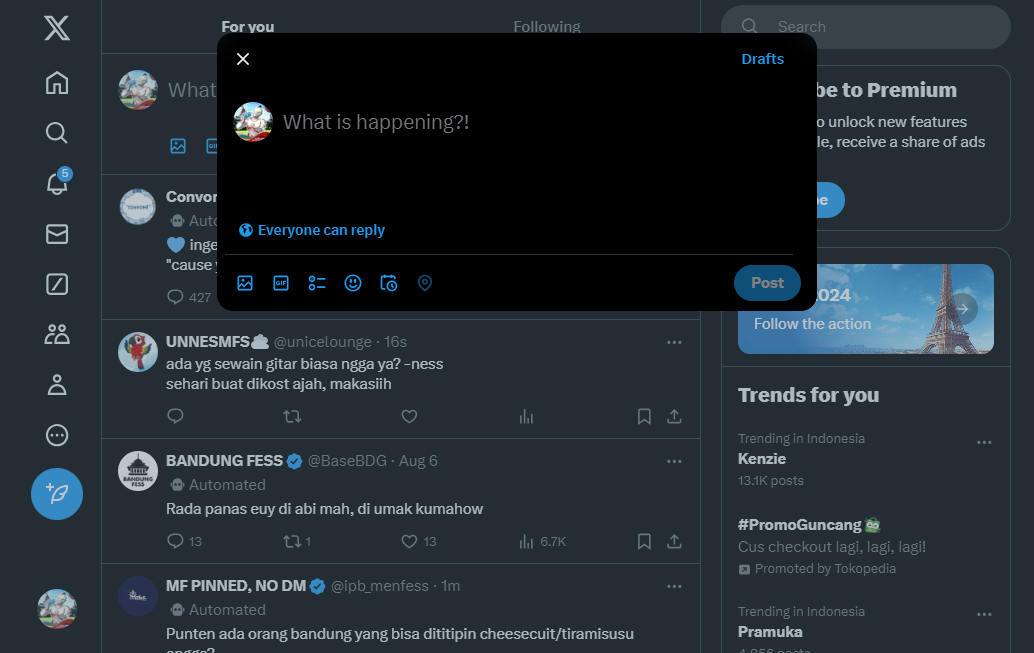
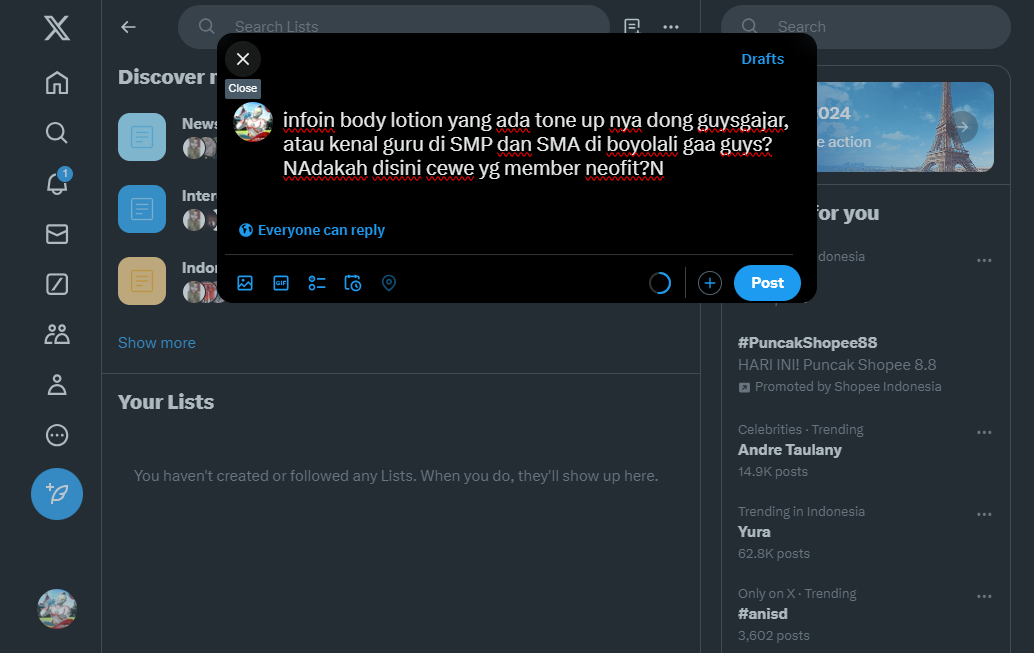
feat: login using auth token cookie

diff --git a/src/modules/tweeting/login.ts b/src/modules/tweeting/login.ts
@@ -1,0 +1,138 @@
+import * as path from 'path';
+import * as fs from 'fs';
+import { ElementHandle, NodeFor } from "puppeteer";
+import { delay } from "./helper/helper";
+import { page } from "./main";
+
+export default async function login() {
+    try {
+      // #1 LOGIN using Cookie
+      await loginCookie()
+    } catch (errorLoginCookie) {
+      console.log('ERROR: login using cookie. ', errorLoginCookie);
+  
+      // #2 LOGIN manually
+      try {
+        await loginManual()
+      } catch (errorLoginManually) {
+        console.log('ERROR: login using cookie. ', errorLoginManually);
+      } finally {
+        console.log("LOGGED IN using cookie..")
+      }
+    } finally {
+      console.log("LOGGED IN manually..")
+    }
+  }
+  
+async function loginCookie() {
+    // Get the absolute path to the login_cookie.json file
+    const cookieFilePath = path.join(__dirname, '..', 'data', 'login_cookie.json');
+
+    // go to twitter login page
+    await page.goto('https://twitter.com');
+    await delay(5000);
+
+    // get auth token from json file
+    const data = await fs.promises.readFile(cookieFilePath, 'utf8');
+    const cookieData = JSON.parse(data);
+
+    // set the login cookie
+    await page.setCookie(...cookieData)
+    const cookiesSet = await page.cookies('https://twitter.com/');
+    console.log(JSON.stringify(cookiesSet));
+
+    // reopen homepage with login cookie ativated
+    await delay(5000)
+    await page.goto('https://twitter.com');
+
+    // wait for 10 seconds to page loaded prefectly before scraping
+    await delay(10000);
+}
+
+async function loginManual() {
+    // get auth credentials from env
+    const email: string = process.env.EMAIL_TWT || '';
+    const username: string = process.env.USERNAME_TWT || '';
+    const password: string = process.env.PASSWORD_TWT || '';
+
+    // go to twitter login page
+    await page.goto('https://twitter.com/login');
+    await delay(5000);
+    
+    // fill email
+    await page.locator('input.r-30o5oe').fill(email);
+    await delay(1000);
+    console.log('login-1')
+
+    // click next
+    let nextBtn: ElementHandle<NodeFor<any>> | null = await page.waitForSelector('::-p-xpath(//*[@id="layers"]/div/div/div/div/div/div/div[2]/div[2]/div/div/div[2]/div[2]/div/div/div/button[2])') || null;
+    await nextBtn?.click()
+    await delay(1000);
+    console.log('login-2')
+    
+    // check if need to input username because unusual activity detected
+    const spanElements = await page.$$('span');
+    console.log('login-3')
+    for (const span of spanElements) {
+    const textContent = await span.evaluate(el => el.textContent);
+    if (textContent?.includes('Enter your phone number or username')) {
+        // fill username
+        await page.locator('input.r-30o5oe').fill(username);
+        await delay(1000);
+
+        nextBtn = await page.waitForSelector('::-p-xpath(//*[@id="layers"]/div/div/div/div/div/div/div[2]/div[2]/div/div/div[2]/div[2]/div[2]/div/div/div/button)');
+        await nextBtn?.click()
+        await delay(1000);
+        console.log('login-3')
+        break;
+    }
+    }
+    console.log('login-4')
+    
+    await page.locator('input[type="password"]').fill(password)
+    await delay(1000);
+    console.log('login-5')
+
+    nextBtn = await page.waitForSelector('::-p-xpath(//*[@id="layers"]/div[2]/div/div/div/div/div/div[2]/div[2]/div/div/div[2]/div[2]/div[2]/div/div[1]/div/div/button)');
+    await nextBtn?.click()
+    await delay(10000);
+    console.log('login-6')
+
+    // check if there is a closed button in popup -> close    
+    const buttonCount = await page.$$eval('button[aria-label="Close"]', (buttons) => buttons.length);
+    console.log('login-7')
+    const isAnyCloseBtn = buttonCount > 0;
+    console.log('login-8')
+    if (isAnyCloseBtn) {
+    await page.locator('button[aria-label="Close"]').click()
+    await delay(1000);
+    console.log('login-9')
+    }
+    console.log('login-10')
+
+    // close bottom popup if any
+    await delay(5000);
+    try{
+    const closeBtn = await page.waitForSelector('::-p-xpath(//*[@id="layers"]/div/div[1]/div/div/div/button)');
+    await closeBtn?.click()
+    console.log('login-11')
+    } catch (e) {
+    console.log(e)
+    }
+
+    // if redirected to login again -> relogin
+    const span2Elements = await page.$$('span');
+    console.log('login-12')
+    for (const span of span2Elements) {
+    const textContent = await span.evaluate(el => el.textContent);
+    if (textContent?.includes('Happening now')) {
+        await page.goto('https://twitter.com/login/');
+        await delay(1000);
+        await loginCookie();
+        break;
+    }
+    }
+
+    // wait for 10 seconds to page loaded prefectly before scraping
+    await delay(10000);
+}

diff --git a/src/modules/tweeting/post_tweet.ts b/src/modules/tweeting/post_tweet.ts
@@ -1,0 +1,55 @@
+import { delay } from "./helper/helper";
+import { page } from "./main";
+
+export default async function postTweet(message: string): Promise<string> {
+    console.log('postTweet-1')
+    
+    // put the comment using puppeteer
+    // type R on keyboard to reply on the post
+    await page.keyboard.type('N')
+    await delay(2000)
+    console.log('postTweet-2: is typing...')
+    
+    await page.keyboard.type(message, { delay: 100 })
+    await delay(1000);
+    console.log('postTweet-3')
+
+    // type ctrl + enter to post
+    page.keyboard.down('ControlLeft');
+    page.keyboard.press('Enter');
+    await delay(2000)
+    await page.keyboard.up('ControlLeft');
+    console.log('postTweet-4: POSTED!')
+  
+    // if any popup with close button -> click close
+    const buttonCount = await page.$$eval('button[aria-label="Close"]', (buttons) => buttons.length);
+    console.log('postTweet-5')
+    const isAnyCloseBtn = buttonCount > 0;
+    if (isAnyCloseBtn) {
+      await page.locator('button[aria-label="Close"]').click()
+      await delay(1000);
+      console.log('postTweet-6')
+    }
+
+    // get post url
+    // check top article that cotnains menfess username
+    await delay(5000);
+    const articleElements = await page.$$('article');
+    console.log('postTweet-7')
+    for (const article of articleElements) {
+      const textContent = await article.evaluate(el => el.textContent);
+      console.log('postTweet-8')
+      if (textContent?.includes(`@${process.env.USERNAME_TWT}`)) {
+        await article?.click()
+        await delay(1000);
+        const postUrl = await page.url()
+        await delay(1000);
+        await page.goBack()
+        console.log('postTweet-9')
+        console.log('postTweet-10-returned url: DONE!')
+        return postUrl;
+      }
+    }
+    console.log('postTweet-10-error-returned-url: DONE!')
+    return ''
+}

diff --git a/src/modules/tweeting/main.ts b/src/modules/tweeting/main.ts
@@ -1,8 +1,8 @@
 import { Browser, Page } from 'puppeteer';
 import puppeteer from 'puppeteer-extra';
 import StealthPlugin from 'puppeteer-extra-plugin-stealth'
-import { login } from "./tweeting";
 import { delay } from './helper/helper.js';
+import login from './login.js';
 require('dotenv').config()
 
 // middlewares
@@ -19,18 +19,10 @@ export default async function startTweeter() {
   // generate random user agents so not detected as the same user
   const userAgent = require('user-agents');
   console.log("Mozilla/5.0 (X11; Linux x86_64) AppleWebKit/537.36 (KHTML, like Gecko) Chrome/127.0.0.0 Safari/537.36");
-  await page.setUserAgent(userAgent.random().toString());
-
-
-  // Navigate to twitter login page
-  await page.goto('https://twitter.com/login/');
-  await delay(1000);
+  await page.setUserAgent("Mozilla/5.0 (X11; Linux x86_64) AppleWebKit/537.36 (KHTML, like Gecko) Chrome/127.0.0.0 Safari/537.36");
   
   // Login
-  const email: string = process.env.EMAIL_TWT || '';
-  const username: string = process.env.USERNAME_TWT || '';
-  const password: string = process.env.PASSWORD_TWT || '';
-  await login(email, username, password)
+  await login()
 }
 
 export { page };

diff --git a/src/queue.ts b/src/queue.ts
@@ -1,6 +1,6 @@
 import queueRes from "./constants/queue";
 import { delay } from "./modules/tweeting/helper/helper";
-import { postTweet } from "./modules/tweeting/tweeting";
+import postTweet from "./modules/tweeting/post_tweet";
 
 let queueTweets: Array<queueRes> = []
 let isProcessing: boolean = false;

diff --git a/readme.md b/readme.md
@@ -2,3 +2,9 @@
 EMAIL_TWT=
 USERNAME_TWT=
 PASSWORD_TWT=
+
+## NOTES
+in server it was working fine and able to send replies. the user_agent is "Mozilla/5.0 (X11; Linux x86_64) AppleWebKit/537.36 (KHTML, like Gecko) Chrome/127.0.0.0 Safari/537.36". I don't know if it's the case or something else that make the keyboard button able to Ctrl+Enter to send.
+
+## DATA
+1. login_cookie.json = used for storing array of login cookie from twitter. only 1 cookie (name: auth_token)
